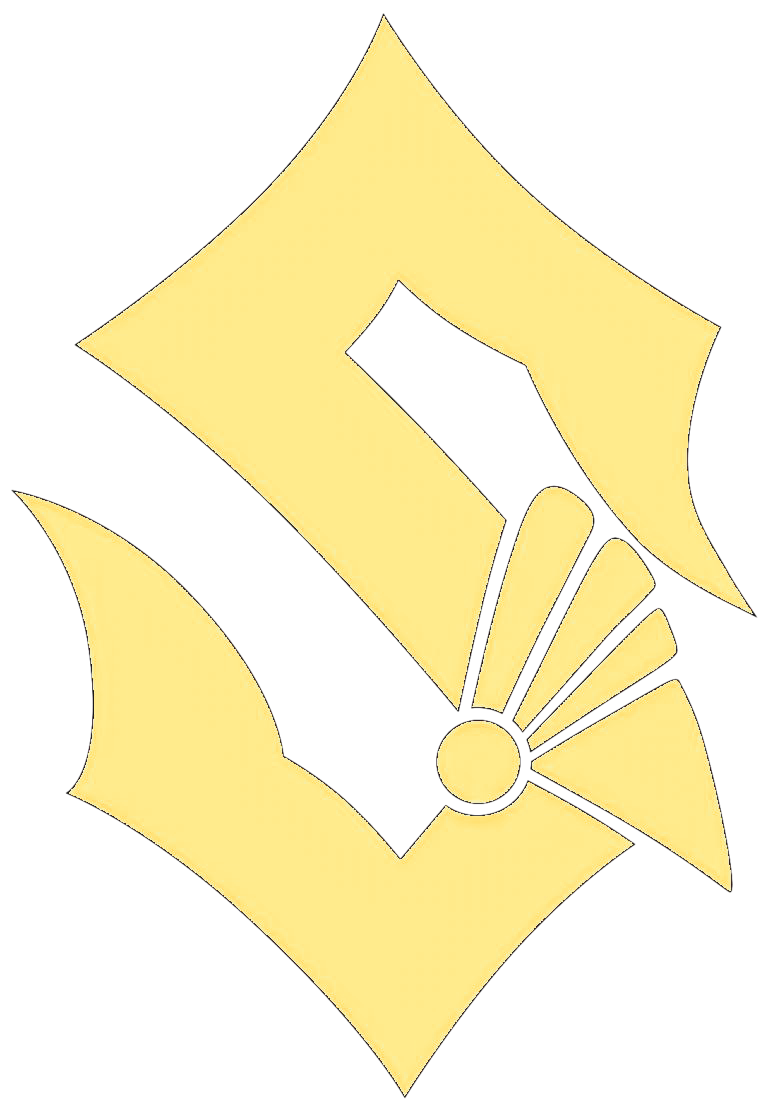
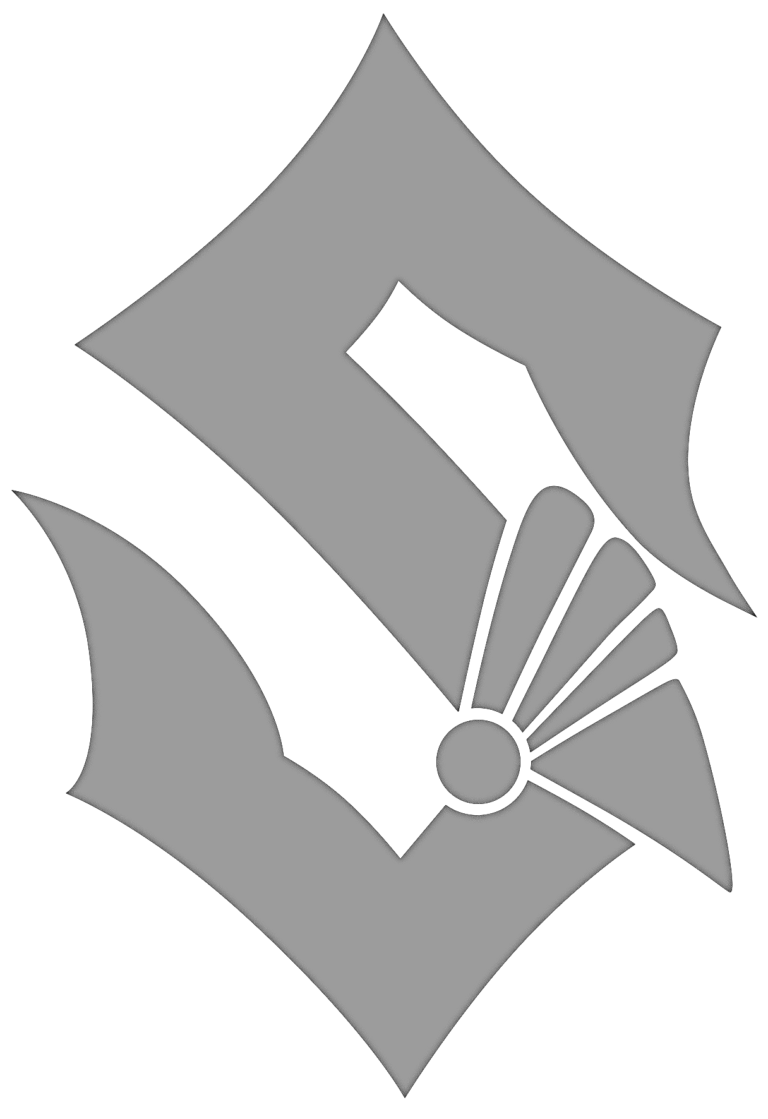
Change Background
Only if view on mobile device. 2 to 3 different backgrounds.

diff --git a/script.js b/script.js
@@ -25,6 +25,8 @@ btnalarmcancel.disabled = true;
 // let impHour = document.getElementById("hour");
 // let impMin = document.getElementById("min");
 
+const phoneScreenSize = window.matchMedia("(max-width: 600px)");
+
 let player;
 
 // create Date object for current location
@@ -54,14 +56,20 @@ function playYoutubeAlarm() {
   // Hide placeholder
   alarmPlaceholder.style.display = "none";
 
-  body.style.backgroundImage = "url('./media/SabatonColor.jpg')";
+
+  if (phoneScreenSize.matches) {
+    body.style.backgroundImage = "url('./media/setBackground.png')";
+  }
+  else {
+    body.style.backgroundImage = "url('./media/SabatonColor.jpg')";
+  }
   body.style.transition = "background-image 0.75s ease-in-out";
 
   btnsetalarm.style.color = "green";
   btnsetalarm.style.borderColor = "green";
   btnalarmcancel.style.color = "red";
   btnalarmcancel.style.borderColor = "red";
- 
+
   alarmPlaceholder.style.opacity = "1.0";
 
   realtime.style.opacity = "1.0";
@@ -83,7 +91,8 @@ function stopAlarm() {
     player.stopVideo();
     player.setSize(0, 0); // hide it again
   }
-  body.style.backgroundImage = "url('./media/SabatonDark.JPG')";
+
+  body.style.backgroundImage = "url('./media/SabatonGrey.jpg')";
   body.style.transition = "background-image 0.75s ease-in-out";
   alarmPlaceholder.style.opacity = "1.0";
 
@@ -110,14 +119,20 @@ function timeset(t) {
 
 function alarmset() {
   btnsetalarm.disabled = true;
-  btnsetalarm.style.color = "#222222";
+  btnsetalarm.style.color = "#9e9e9eff";
   btnsetalarm.style.borderColor = "#333333";
 
   btnalarmcancel.disabled = false;
-  btnalarmcancel.style.color = "#222222";
+  btnalarmcancel.style.color = "#9e9e9eff";
   btnalarmcancel.style.borderColor = "#333333";
 
-  body.style.backgroundImage = "url('media/SabatonDark.JPG')";
+
+  if (phoneScreenSize.matches) {
+    body.style.backgroundImage = "url('media/setBackground.png')";
+  }
+  else {
+    body.style.backgroundImage = "url('media/SabatonDark.JPG')";
+  }
   body.style.transition = "background-image 0.75s ease-in-out";
   realtime.style.opacity = "0.25";
   Array.from(document.getElementsByTagName("h3")).forEach(h3 => h3.style.opacity = "0.25");
@@ -157,10 +172,14 @@ function alarmcancel() {
 
   stopAlarm();
 
-  body.style.backgroundImage = "url('./media/SabatonGrey.jpg')";
+  if (phoneScreenSize.matches) {
+    body.style.backgroundImage = "url('./media/alt-background.png')";
+  } else {
+    body.style.backgroundImage = "url('./media/SabatonGrey.jpg')";
+  }
   body.style.transition = "background-image 0.75s ease-in-out";
 
-  
+
   realtime.style.opacity = "1.0";
   Array.from(document.getElementsByTagName("h3")).forEach(h3 => h3.style.opacity = "1.0");
   Array.from(document.getElementsByTagName("h4")).forEach(h4 => h4.style.opacity = "1.0");
